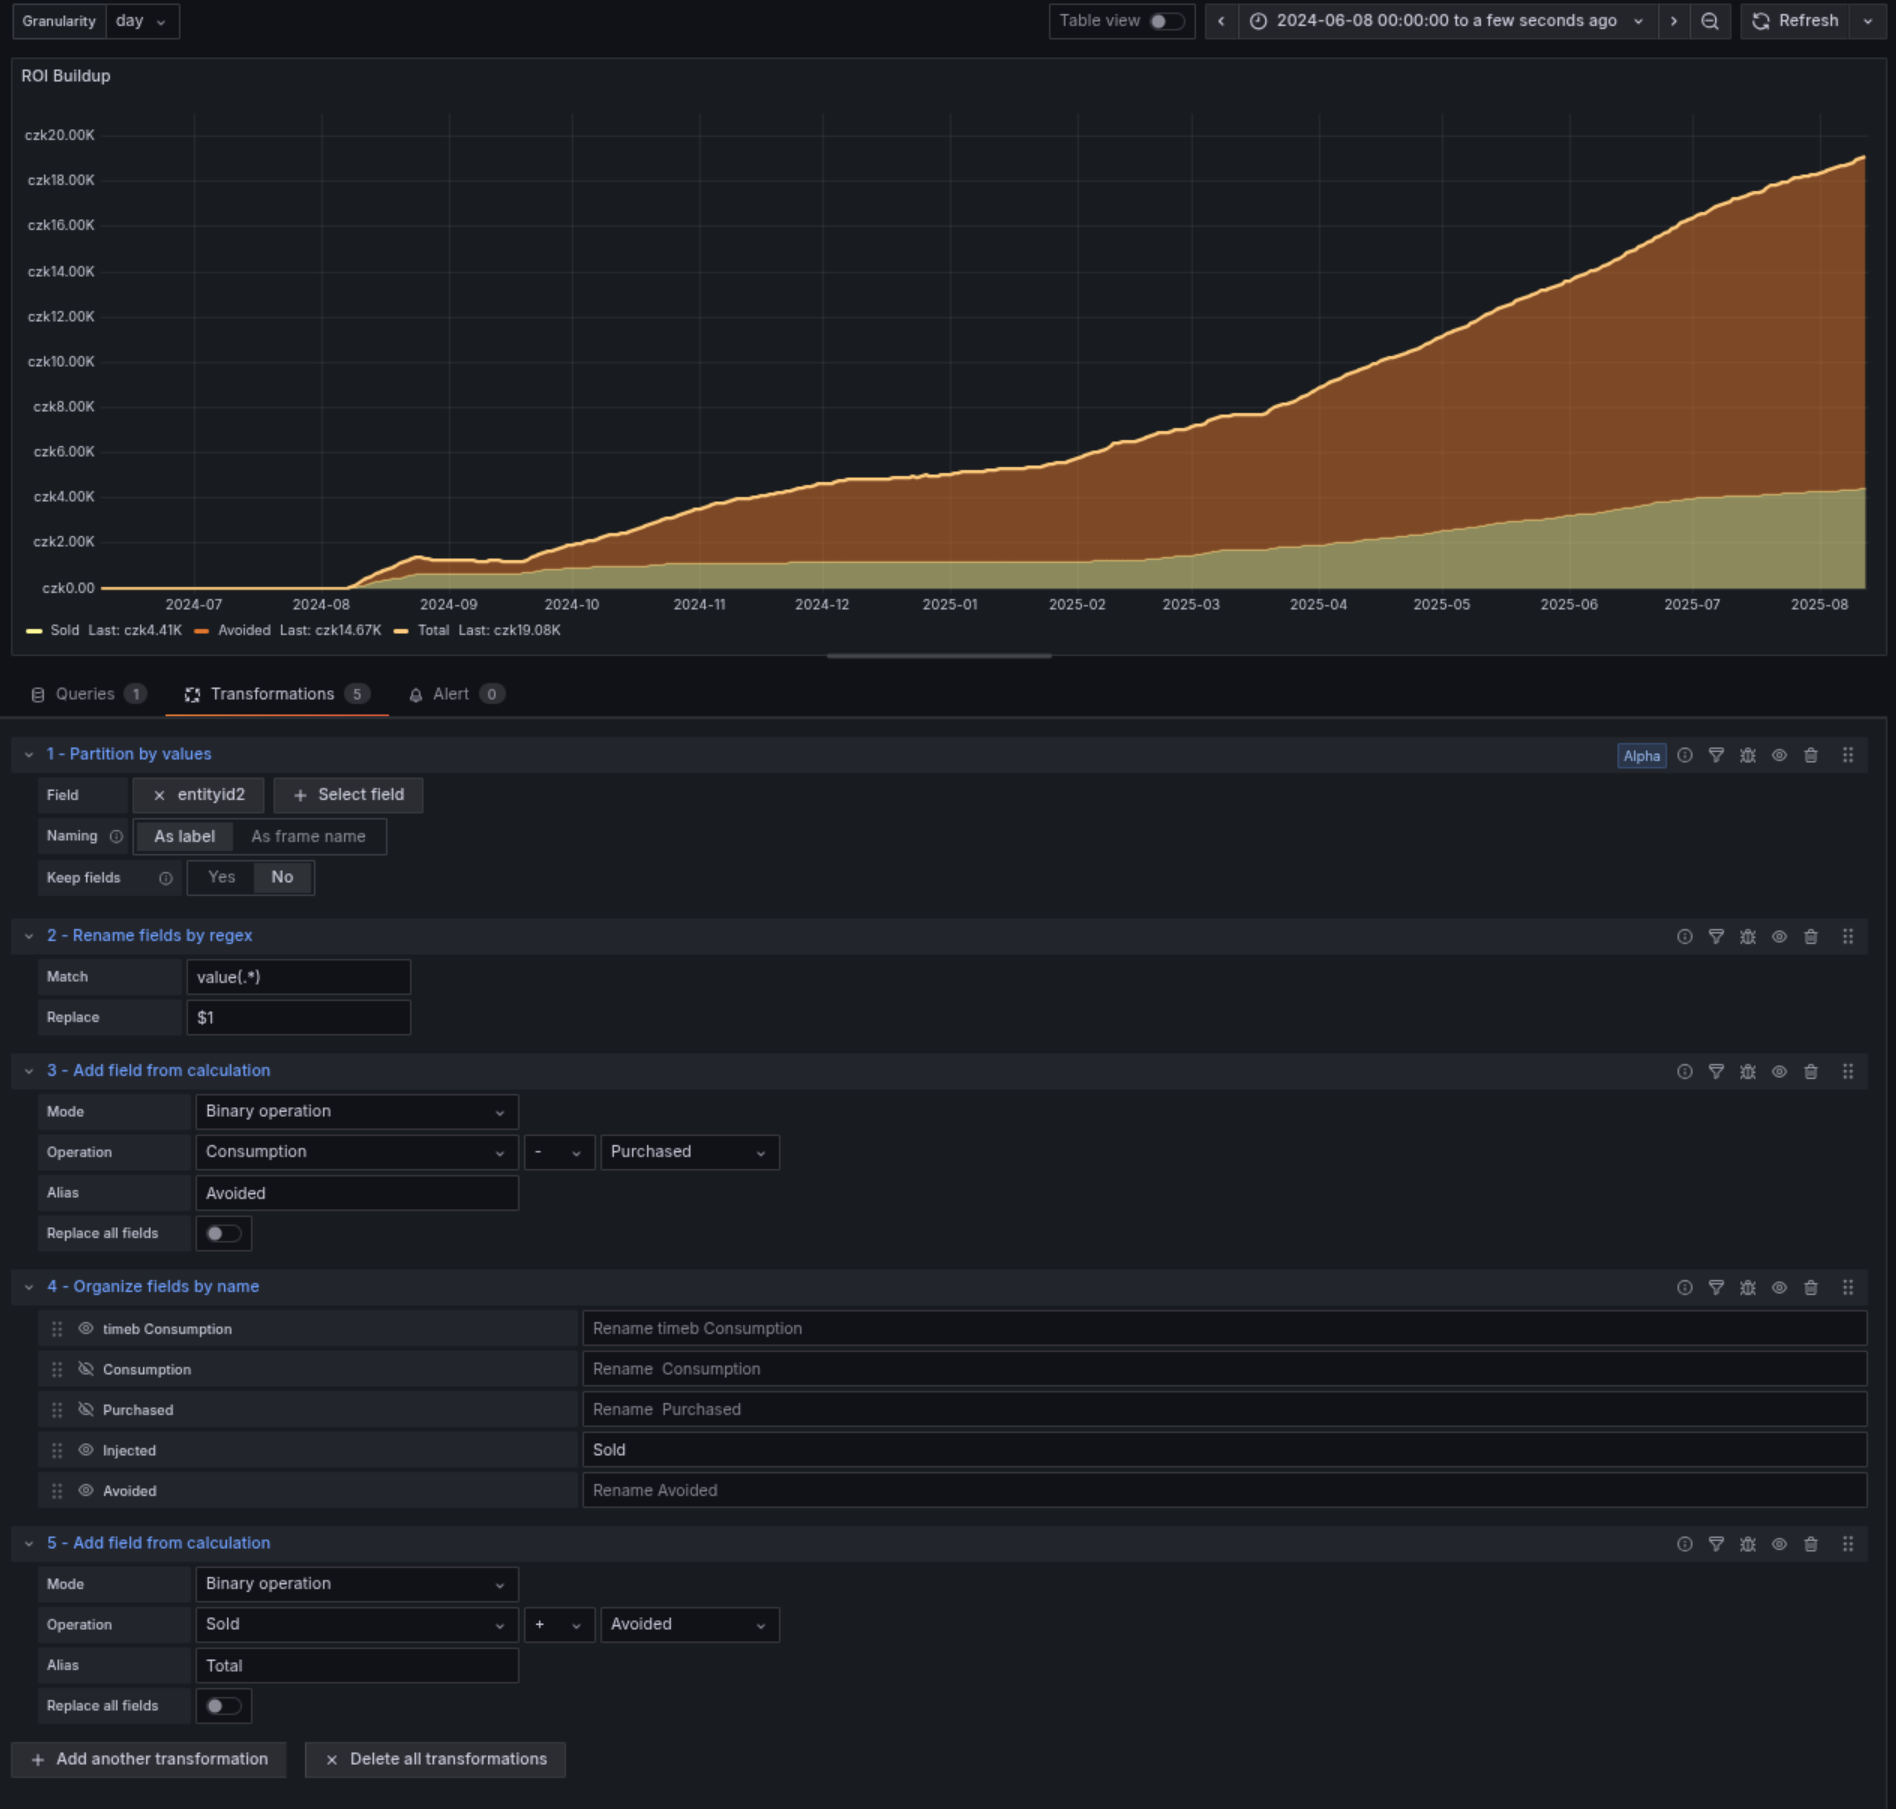
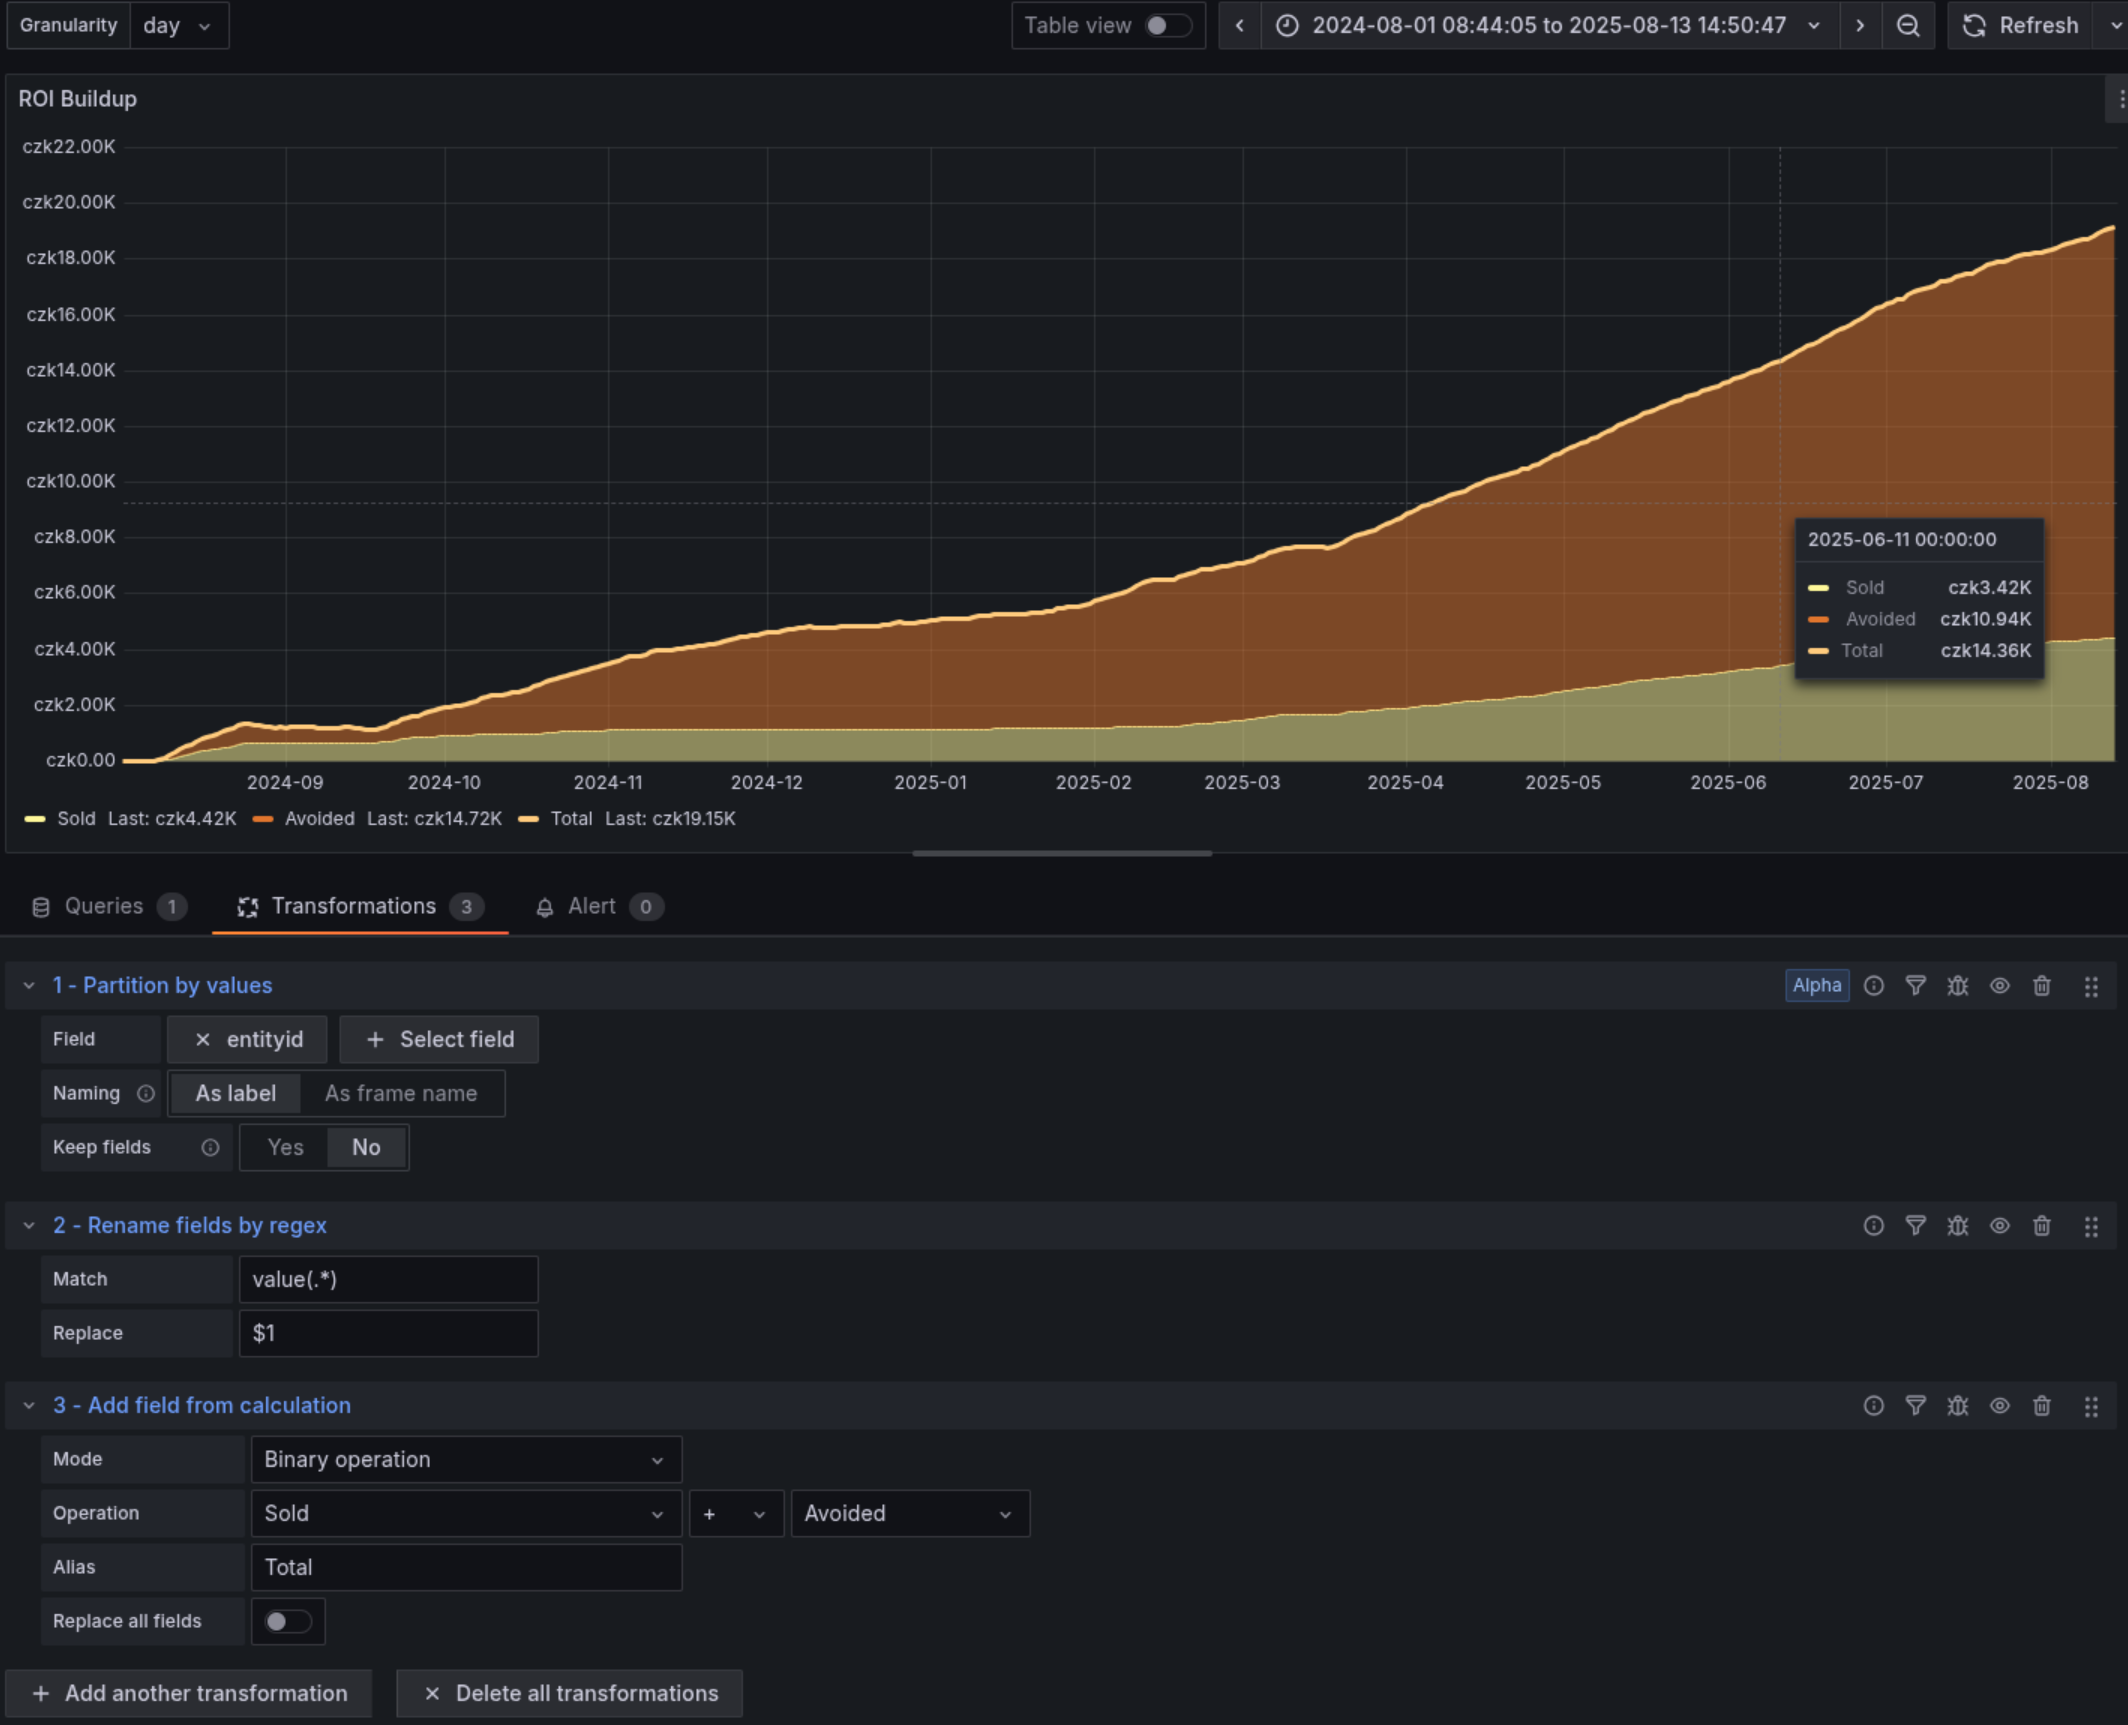
Article update

diff --git a/energy-spot-prices.md b/energy-spot-prices.md
@@ -92,7 +92,6 @@ CREATE OR REPLACE FUNCTION ltss_energy.tr_ltss_otaprices()
     LANGUAGE 'plpgsql'
     SECURITY DEFINER
 AS $BODY$
-
 DECLARE
     err_msg   TEXT;
     err_code  TEXT;
@@ -127,8 +126,6 @@ ON public.ltss
 FOR EACH ROW
 EXECUTE FUNCTION ltss_energy.tr_ltss_otaprices();
 ```
-
-Notice the implementation of error handling. It's important to ignore any error raised by this trigger, otherwise it would roll the transaction inserting data back.
 
 The trigger makes a range out of the "time" column. It assumes that the value is reported within a time period the value is valid for. This is a shortcoming: the import as to be reliable all the time, otherwise you might lost entries price (ie because of HA restart).
 
@@ -199,6 +196,7 @@ FOR EACH ROW
 EXECUTE FUNCTION ltss_energy.tr_ltss_otaprices();
 ```
 
+Notice that both implementations contains an error handling. While it is expensive in the Postgresql, it's intentionally left to ignore any error raised by this trigger. It prioritizes storing all data in `ltss` table over errors caused by these triggers. In any way, while it suppreses the error, it forwards information with error details to log as a warning.
 
 <details>
 <summary>For users of Czech Energy Spot Prices custom integration</summary>
@@ -239,19 +237,17 @@ The result will be the UNION of two subqueries you have to put into Grafana:
 
 ```sql
 SELECT time, cost_type, cost_kind, cost_value
-FROM electricity_cost AS ec
-JOIN generate_series(to_timestamp($__from/1000)::DATE::TIMESTAMPTZ, to_timestamp($__to/1000)::TIMESTAMPTZ, '1 day'::interval) AS x(time) ON TRUE
-WHERE x.time::DATE <@ cost_range
-AND cost_type <> 'sale'
+FROM ltss_energy_ote.electricity_cost AS ec
+JOIN generate_series(to_timestamp($__from/1000)::DATE::TIMESTAMPTZ, to_timestamp($__to/1000)::TIMESTAMPTZ, '1 day'::INTERVAL) AS x(time) ON TRUE
+WHERE x.time <@ cost_range
+  AND cost_type <> 'sale'
 
 UNION
 
 SELECT LOWER(cost_range) AS time, cost_type, cost_kind, cost_value
-FROM ltss_energy.electricity_cost_ote AS ec
-WHERE LOWER(cost_range) BETWEEN to_timestamp($__from/1000)::DATE::TIMESTAMPTZ AND to_timestamp($__to/1000)::TIMESTAMPTZ
-AND cost_type = 'sale'
-
-ORDER BY time, cost_type, cost_kind
+FROM ltss_energy_ote.electricity_cost AS ec
+WHERE LOWER(cost_range) BETWEEN to_timestamp($__from/1000)::TIMESTAMPTZ AND to_timestamp($__to/1000)::TIMESTAMPTZ
+  AND cost_type = 'sale'
 ```
 
 Just to make an image of improvement. With previous approach the query would take about 1.5s on rPi for 1 year of data. After the change the execution takes about 30ms.
@@ -365,15 +361,36 @@ CALL refresh_continuous_aggregate('ltss_energy_ote.cagg_energy_daily', '2025-01-
 
 ## Presentation SQL queries
 
-The SQL queries remains basically the same. With exception, they don't make use of `calculate_cost()` function anymore. Instead they take ready to use prices.
+The SQL queries remains basically the same. With exception, they don't make use of `calculate_cost()` function anymore. Instead they take ready to use prices from `cost_sale` and `cost_purchase` columns.
 
-For example to draw chart of ROI buildup, we can get:
-* cost_sale for injected energy (obvious)
-* cost_purchase for purchased energy (obvious)
-* cost_purchase for consumed energy. 
+The easiest example is the ROI value. Bellow, there is an SQL query returning Return Of Investment.
+ROI is equal to sum of savings and sold energy. Savings comes from price of the consumed but not paid energy, thus from consumed energy reduced by purchased one. For savings we have to use purchase price.
 
-We are using purchase price for consumed energy because this `cost of consumption - cost of purchase` makes a cost of avoded purchase. 
+```sql
+SELECT 
+    SUM
+    (
+        CASE
+            WHEN entity_id ~ 'injected'         THEN cost_sale
+            WHEN entity_id ~ 'purchased'        THEN -1 * cost_purchase
+            WHEN entity_id ~ 'cube|mainhouse'   THEN cost_purchase
+        END
+    ) AS value
+FROM ltss_energy_ote_cagg_energy_daily
+WHERE bucket >= '2024-08-08'
+  AND $__timeFilter("bucket")
+  AND entity_id  IN (
+                        'sensor.energy_injected_hourly', 
+                        'sensor.energy_purchased_hourly',
+                        'sensor.pg_mainhouse_total_energy_energy_hourly',
+                        'sensor.pg_cube_total_energy_energy_hourly'
+                    )
+```
 
+This use of partial costs will return in the rest of cost presenting graphs. 
+Worth to mention that we can do the math in Postgresql or in Grafana. The performance difference measured on database side is negligible. Because of that, this time I choose  fetching of least data by doing the match in database
+
+The query bellow returns 2 values: Sold and Avoided. I use Transformations to get additional series, representing sum of both. 
 
 ```sql
 WITH 
@@ -382,40 +399,37 @@ src AS
     SELECT 
     time_bucket_gapfill
     (
-        '$query_granularity'::interval,      
+        '$query_granularity'::INTERVAL,      
         "bucket", 'Europe/Prague'
-    ) AS timeb,
-    CASE WHEN entity_id ~ 'injected' THEN 'Injected'
-        WHEN entity_id ~ 'purchased' THEN 'Purchased'
-        WHEN entity_id ~ 'cube|mainhouse' THEN 'Consumption'
-        ELSE entity_id
-    END AS entityid2,
+    ) AS time,
+    CASE WHEN entity_id ~ 'injected'        THEN 'Sold'
+         WHEN entity_id ~ 'purchased'       THEN 'Avoided'
+         WHEN entity_id ~ 'cube|mainhouse'  THEN 'Avoided'
+         ELSE entity_id
+    END AS entityid,
     SUM(CASE
             WHEN bucket < '2024-08-08' THEN 0 
-            ELSE CASE WHEN entity_id ~ 'injected' THEN cost_sale
-                        WHEN entity_id ~ 'purchased' THEN cost_purchase
-                        WHEN entity_id ~ 'cube|mainhouse' THEN cost_purchase
+            ELSE CASE 
+                    WHEN entity_id ~ 'injected'       THEN cost_sale
+                    WHEN entity_id ~ 'purchased'      THEN -1 * cost_purchase
+                    WHEN entity_id ~ 'cube|mainhouse' THEN cost_purchase
                  END
         END) AS value
-    FROM ltss_energy_ote.cagg_energy_${cagg_suffix}
-    WHERE entity_id  IN (
+    FROM ltss_energy.cagg_energy_${cagg_suffix}
+    WHERE entity_id IN (
                             'sensor.energy_injected_hourly', 
                             'sensor.energy_purchased_hourly',
                             'sensor.pg_mainhouse_total_energy_energy_hourly',
                             'sensor.pg_cube_total_energy_energy_hourly'
                         )
-    AND $__timeFilter("bucket") 
-    GROUP BY timeb, entityid2
+    AND $__timeFilter("bucket")
+    GROUP BY 1, 2
 )
 SELECT
-    timeb,
-    entityid2,
-    SUM(value) OVER (
-        PARTITION BY entityid2
-        ORDER BY timeb::date
-        ROWS BETWEEN UNBOUNDED PRECEDING AND CURRENT ROW
-    ) AS value
-FROM src
+    time,
+    entityid,
+    SUM(value) OVER (PARTITION BY entityid ORDER BY time) AS value
+FROM src;
 ```
 
 ![alt text](images/grafana-roi-evolution-ote.png)
